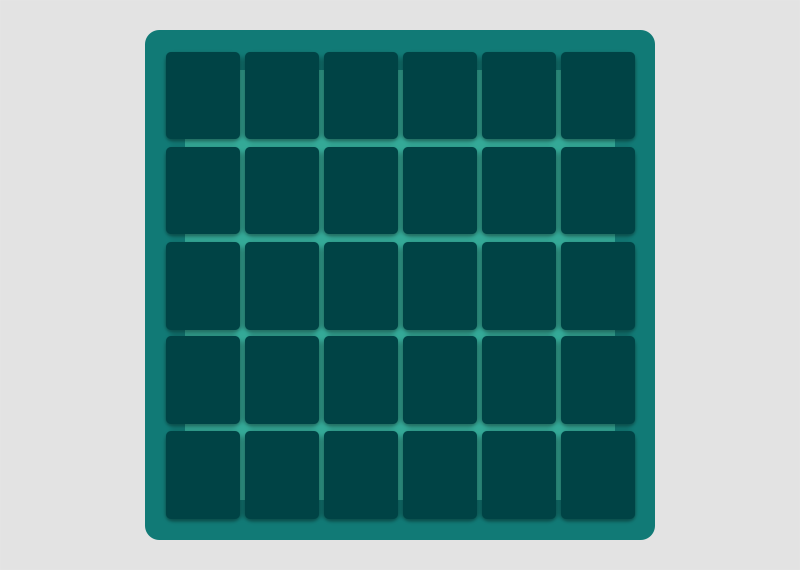
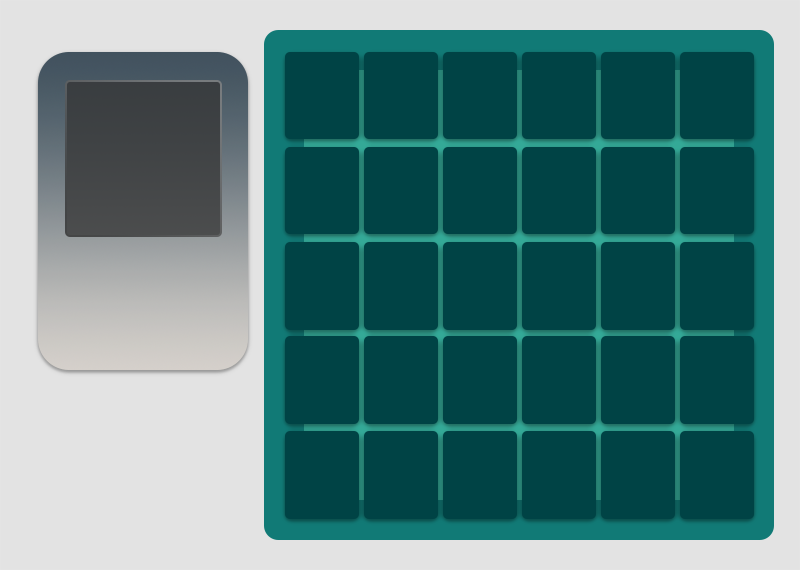
+ pchest style

diff --git a/Dynastio.Bot/Services/GraphicService.cs b/Dynastio.Bot/Services/GraphicService.cs
@@ -8,13 +8,14 @@ using Dynastio.Bot.Managers;
 using Dynastio.Bot.Global;
 using Dynastio.Bot.Services;
 using Microsoft.Extensions.DependencyInjection;
-using static System.Runtime.InteropServices.JavaScript.JSType;
+using Dynastio.Bot.Data;
 
 namespace Dynastio.Bot
 {
     public class GraphicService
     {
         private readonly InternetService _internetService;
+
         private readonly IServiceProvider _services;
         public GraphicService(IServiceProvider services)
         {
@@ -45,7 +46,7 @@ namespace Dynastio.Bot
                 image.Mutate(wIndex => wIndex.DrawImage(avatar, new Point(30, 30), 1f));
 
                 image.Mutate(wIndex => wIndex.DrawText("Username: " + user.Username, new Font(fontFamily, 35, FontStyle.Regular), Color.White, new Point(40, 300)));
-                image.Mutate(wIndex => wIndex.DrawText("Member: " + (user.Guild.ApproximateMemberCount + 1) +"th", new Font(fontFamily, 35, FontStyle.Regular), Color.White, new Point(40, 370)));
+                image.Mutate(wIndex => wIndex.DrawText("Member: " + (user.Guild.ApproximateMemberCount + 1) + "th", new Font(fontFamily, 35, FontStyle.Regular), Color.White, new Point(40, 370)));
                 image.Mutate(wIndex => wIndex.DrawText("Welcome to Dynast.io", new Font(fontFamily, 35, FontStyle.Regular), Color.White, new Point(40, 430)));
             }
 
@@ -84,7 +85,15 @@ namespace Dynastio.Bot
         }
 
 
-        public Image GetPersonalChest(Personalchest personalchest)
+        private const int wSlotSize = 6;
+        private const int hSlotSize = 5;
+        private const int SlotSizeWidth = 73;
+        private const int SlotSizeHeight = 87;
+        private const int firstSlotSizeMarginWidth = 288;
+        private const int firstSlotSizeMarginHeight = 52;
+        private const int SlotSizeMarginWidth = 5;
+        private const int SlotSizeMarginHeight = 7;
+        public async Task<Image> GetPersonalChestAsync(Discord.IGuildUser user, UserAccount account, Personalchest personalchest)
         {
 
             Image image = Image.Load(FileManager.ToResourcePath($@"Images/personalchest/default.png"));
@@ -93,14 +102,6 @@ namespace Dynastio.Bot
 
             var items = personalchest.GetAsDictionary();
 
-            const int wSlotSize = 6;
-            const int hSlotSize = 5;
-            const int SlotSizeWidth = 73;
-            const int SlotSizeHeight = 87;
-            const int firstSlotSizeMarginWidth = 170;
-            const int firstSlotSizeMarginHeight = 52;
-            const int SlotSizeMarginWidth = 5;
-            const int SlotSizeMarginHeight = 7;
 
             for (var wIndex = 0; wIndex < wSlotSize; wIndex++)
             {
@@ -126,6 +127,15 @@ namespace Dynastio.Bot
                     }
                 }
             }
+
+            using (Image avatar = await _internetService.GetImageAsync(user?.GetAvatarUrl() ?? user?.GetDefaultAvatarUrl()))
+            {
+                avatar.Mutate(x => x.Resize(151, 151, true));
+                image.Mutate(x => x.DrawImage(avatar, new Point(68, 83), 1f));
+            }
+            image.Mutate(wIndex => wIndex.DrawText("User: " + user.Username, new Font(fontFamily, 16, FontStyle.Regular), Color.Black, new Point(74, 250)));
+            image.Mutate(wIndex => wIndex.DrawText("Account: " + account.Reminder, new Font(fontFamily, 16, FontStyle.Regular), Color.Black, new Point(74, 275)));
+
             return image;
 
         }

diff --git a/Dynastio.Bot/Interactions/Modules/dynastio/modules/server.cs b/Dynastio.Bot/Interactions/Modules/dynastio/modules/server.cs
@@ -63,12 +63,12 @@ namespace Dynastio.Bot.Interactions.Modules.dynastio.Commands
 
                 new EmbedFieldBuilder()
                 .WithName("Players")
-                .WithValue(string.Join(", ", result.Players.Select(a => a.Nickname.TrySubstring(16))).ToMarkdown())
+                .WithValue(string.Join("\n", result.Players.Select(a => a.Nickname.TrySubstring(16))).ToMarkdown())
                 .WithIsInline(false),
 
                 new EmbedFieldBuilder()
                 .WithName("Teams")
-                .WithValue(string.Join(", ", teams.Select(a => a.Key)).ToMarkdown())
+                .WithValue(string.Join("\n", teams.Select(a => a.Key)).ToMarkdown())
                 .WithIsInline(true)
                 }
             }.Build();

diff --git a/Dynastio.Bot/Interactions/Modules/dynastio/modules/personalchest.cs b/Dynastio.Bot/Interactions/Modules/dynastio/modules/personalchest.cs
@@ -22,7 +22,7 @@ namespace Dynastio.Bot.Interactions.Modules.dynastio.Commands
             await DeferAsync();
             var account = Context.BotUser.GetDefaultAccount();
             var personalchest = await this._dynastio.GetUserPersonalchestAsync(account.Id);
-            var image = _graphicService.GetPersonalChest(personalchest);
+            var image = await _graphicService.GetPersonalChestAsync(Context.User as IGuildUser,account, personalchest);
             await DiscordStream.FollowupWithFileAsync(Context, image, $"personalchest-{Context.User.Id}.png", $"");
         }
 
